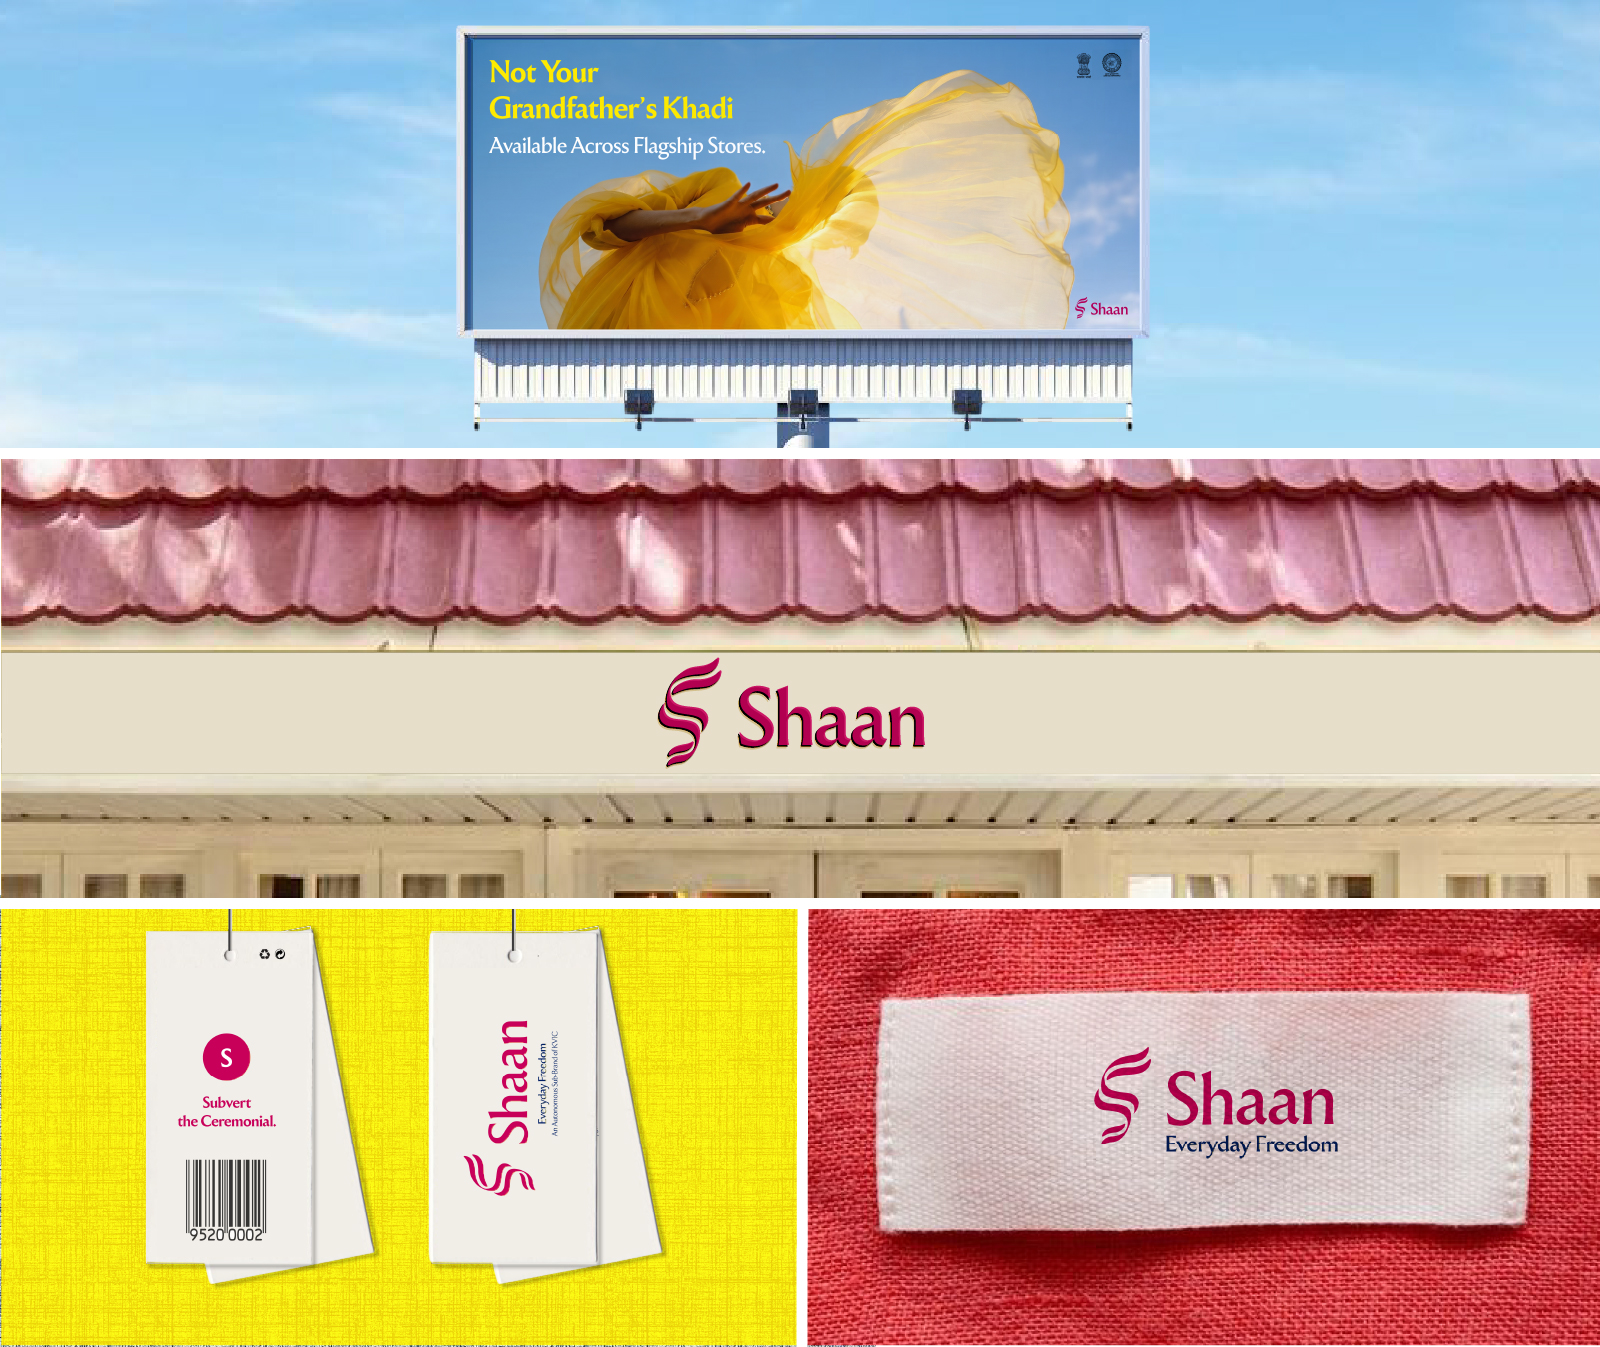
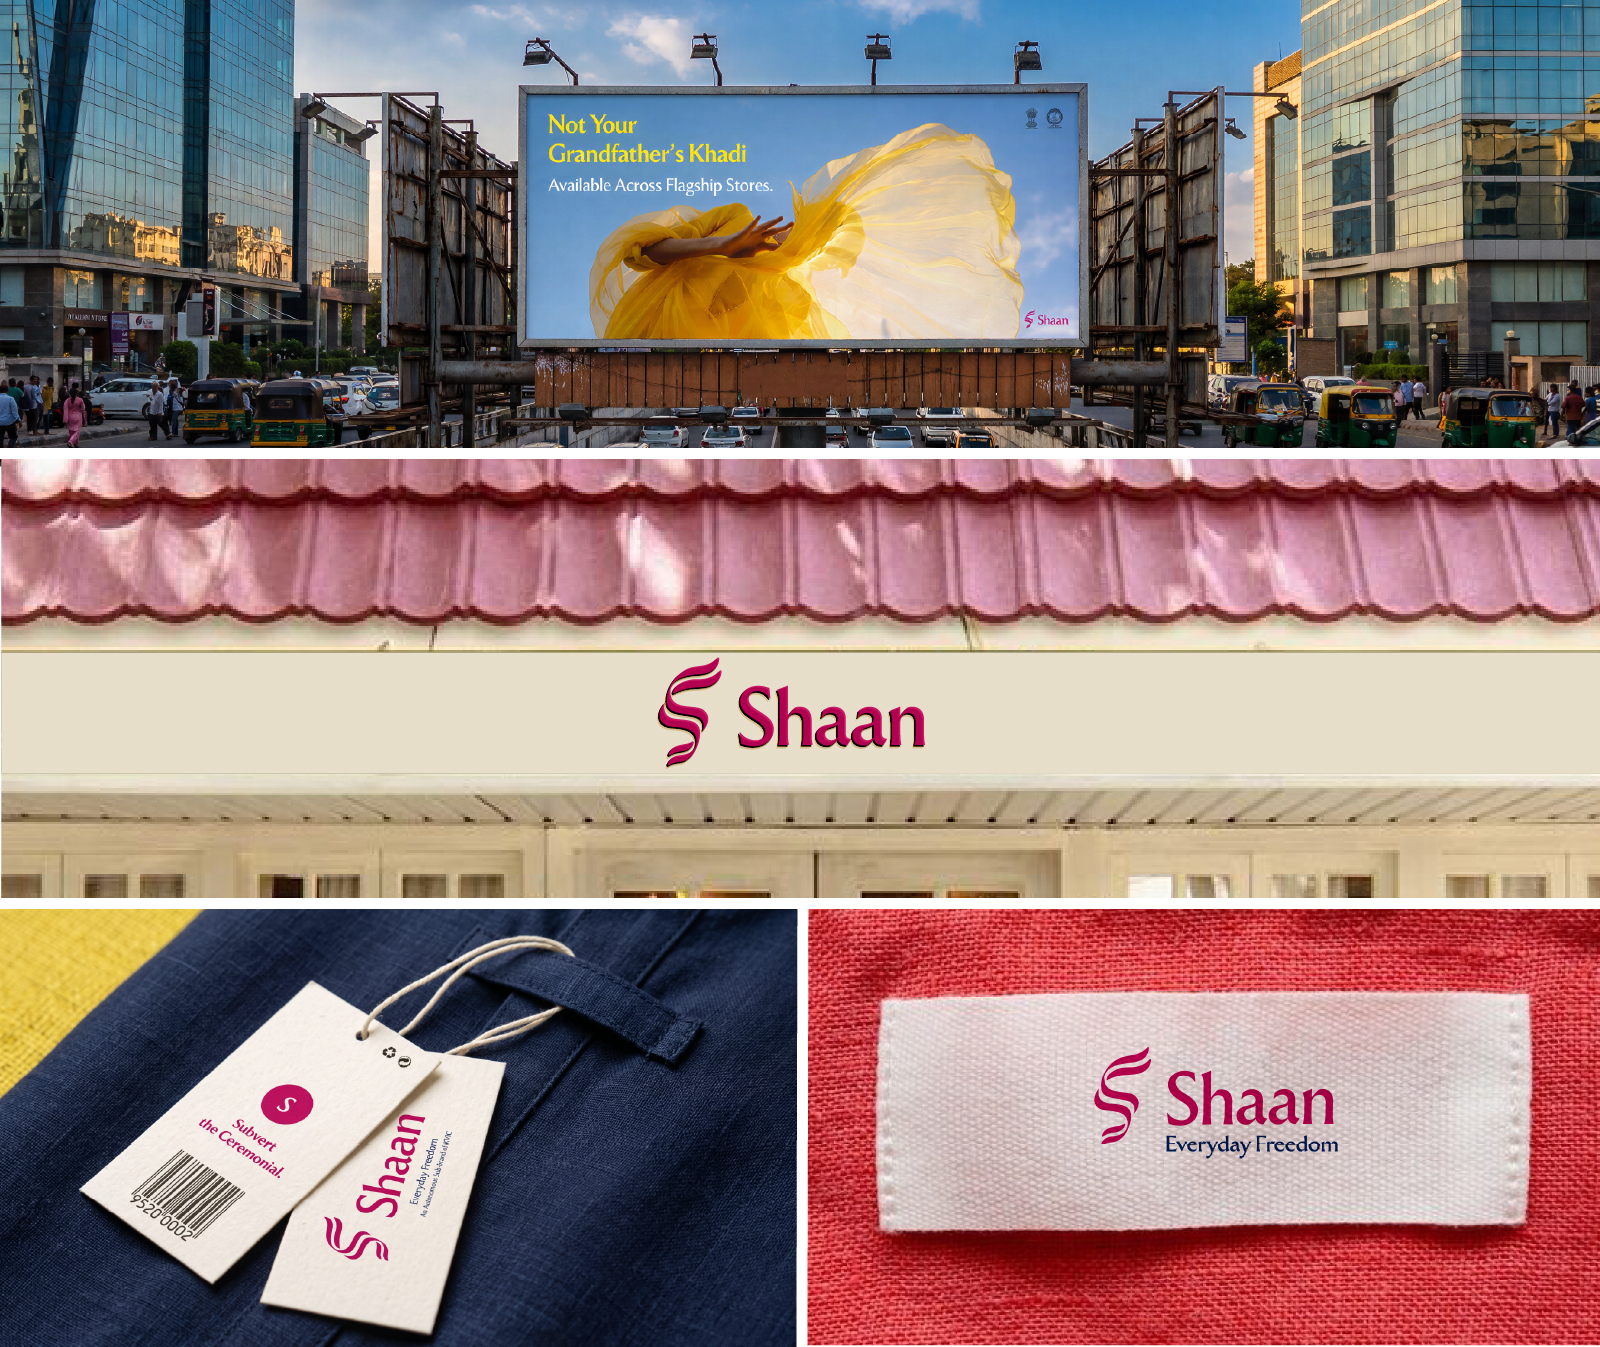
updated Shaan

diff --git a/content/shaan/_index.md b/content/shaan/_index.md
@@ -7,27 +7,38 @@ template = "project-light.html"
 
 
 
+<img width="100%" src="/img/shaan/01.jpg" alt="" /></a> 
+
 #### Rebuilding Handspun
+
+Khadi has traditionally been viewed as outdated, ceremonial, and disconnected from modern youth. To fix this, KVIC launched Shaan—a contemporary apparel sub-brand focused on daily essentials. It completely ditches the rustic heritage vibe for a sharp, modern visual identity with high-contrast typography and minimalist layouts, making sustainable fashion relevant for today's audience.
+
 This identity reimagines the handspun ecosystem from the ground up. Stripping away the expected earthy aesthetics, we built a design system anchored in structural typography, high-contrast color, and raw minimalism. From tactile garment tags to digital touchpoints, the execution completely redefines Khadi for today's ambitious youth. <br>
 
-<img width="100%" src="/img/shaan/1.jpg" alt="" /></a> 
+
 
 
 <img width="100%" src="/img/shaan/2.jpg" alt="" /></a>  <br> <br>
 
 #### Vibrant. High-Contrast. Non-Traditional. 
-We deliberately subvert the dull, earthy expectations of sustainable fashion by electrifying heritage shades—Turmeric Yellow, Indigo, and Gulaal—into sharp, confident statements of everyday expression. <br> <br> <br> <br>
+We deliberately subvert the dull, earthy expectations of sustainable fashion by electrifying heritage shades—Gulaal, Indigo and a pop of Turmeric Yellow—into sharp, confident statements of everyday expression. <br> <br> <br> <br>
 <img width="100%" src="/img/shaan/3.jpg" alt="" /></a>  <br> 
 
 
 #### Fluid Lines. Sharp Expression.
 Confident, sharp, and unapologetically non-traditional. Our typography mirrors the effortless flow of the Shaan's symbol, using crisp, flared terminals of Ceraph to bridge fluid movement with aggressive, structural clarity. <br> <br> <br> <br>
-<img width="100%" src="/img/shaan/6.jpg" alt="" /></a>   <br> <br>
-<img width="100%" src="/img/shaan/7.jpg" alt="" /></a>   
 
+<!-- {{ gallery(dir="/img/shaan/", images=["4.jpg", "5.jpg",]) }} -->
 
 <img width="100%" src="/img/shaan/4.jpg" alt="" /></a>   
 <img width="100%" src="/img/shaan/5.jpg" alt="" /></a>  
+
+
+<img width="100%" src="/img/shaan/6.jpg" alt="" /></a>   <br> <br>
+
+<a href="/img/shaan/7.jpg" target="_blank"><img width="100%" src="/img/shaan/7.jpg" alt="" /></a>   
+
+
 
 
 
